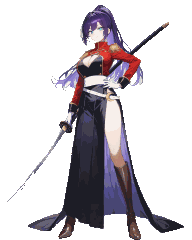
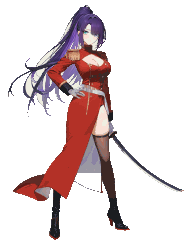
★★ §169 — 대기 그림을 다시 뽑아 공격을 뚫는다 (공격 95/105)
- §166.3 에서 막힌 12종은 대기 그림이 원인이었다: 무기를 땅에 꽂거나 어깨에 걸친 구도라
  img2img 로 자세를 바꾸면 그 구도가 남거나 옷이 무너졌다
- 옷·태그는 그대로 두고 pose 만 「무기를 손에 들고 편하게 서 있다」로, 부정에 땅에 꽂기·어깨 걸치기를 넣고 seed +200
- 대기 12장 중 7장이 개선됐지만 거기서 뽑은 공격은 3장만 통과 — 절반의 성공
  · 짝 교체(대기+공격): 검성 · 만독의 아왕 → 공격 93 → 95/105
  · 대기만 교체: 창기병 · 관문수호자 · 분쇄의 거벽 · 도적왕
  · 현행 유지: 흑기사 · 수호기사 · 도적 · 사신군주 · 대주교 · 아수라 파계존
- ★ 대기를 바꾸면 그 클래스의 공격도 같이 바꿔야 한다 (seed 가 다르면 옷이 다르다).
  적용 전 «대기를 바꾸는 클래스에 이미 적용된 공격본이 있나» 를 확인한다

CACHE merc-v198 · CLIENT_REV 198 · 목록 276장 · 스모크 1028 · pwa 57 · 브라우저 276/276

diff --git a/src/art/illust_manifest.js b/src/art/illust_manifest.js
@@ -37,7 +37,7 @@ export const ILLUST_PNG = {
   illust_arhat_atk: { file: 'art/illust/illust_arhat_atk.png', w: 192, h: 240, ax: 113, ay: 239, marker: { hair: [255, 300], eye: [165, 200] }, roles: ['hair'] },
   illust_assassin: { file: 'art/illust/illust_assassin.png', w: 192, h: 240, ax: 136, ay: 239, eyeBox: [101, 23, 106, 27], marker: { hair: [255, 300], eye: [165, 200] }, roles: ['hair', 'eye'] },
   illust_assassin_atk: { file: 'art/illust/illust_assassin_atk.png', w: 192, h: 240, ax: 87, ay: 239, eyeBox: [77, 24, 95, 30], marker: { hair: [255, 300], eye: [165, 200] }, roles: ['hair', 'eye'] },
-  illust_banditking: { file: 'art/illust/illust_banditking.png', w: 192, h: 240, ax: 38, ay: 239, eyeBox: [39, 22, 80, 38], marker: { hair: [255, 300], eye: [165, 200] }, roles: ['hair', 'eye'] },
+  illust_banditking: { file: 'art/illust/illust_banditking.png', w: 192, h: 240, ax: 92, ay: 239, eyeBox: [83, 31, 99, 36], marker: { hair: [255, 300], eye: [165, 200] }, roles: ['hair', 'eye'] },
   illust_banditking_abyss: { file: 'art/illust/illust_banditking_abyss.png', w: 192, h: 240, ax: 127, ay: 239, eyeBox: [83, 45, 99, 50], marker: { hair: [255, 300], eye: [165, 200] }, roles: ['hair', 'eye'] },
   illust_banditking_abyss_atk: { file: 'art/illust/illust_banditking_abyss_atk.png', w: 192, h: 240, ax: 65, ay: 239, eyeBox: [98, 48, 102, 53], marker: { hair: [255, 300], eye: [165, 200] }, roles: ['hair', 'eye'] },
   illust_banditking_apex: { file: 'art/illust/illust_banditking_apex.png', w: 192, h: 240, ax: 164, ay: 239, eyeBox: [98, 22, 102, 26], marker: { hair: [255, 300], eye: [165, 200] }, roles: ['hair', 'eye'] },
@@ -70,9 +70,9 @@ export const ILLUST_PNG = {
   illust_bulwark: { file: 'art/illust/illust_bulwark.png', w: 192, h: 240, ax: 132, ay: 239, eyeBox: [83, 22, 98, 31], marker: { hair: [255, 300], eye: [165, 200] }, roles: ['hair', 'eye'] },
   illust_bulwark_abyss: { file: 'art/illust/illust_bulwark_abyss.png', w: 192, h: 240, ax: 131, ay: 239, eyeBox: [83, 29, 99, 37], marker: { hair: [255, 300], eye: [165, 200] }, roles: ['hair', 'eye'] },
   illust_bulwark_abyss_atk: { file: 'art/illust/illust_bulwark_abyss_atk.png', w: 192, h: 240, ax: 129, ay: 239, marker: { hair: [255, 300], eye: [165, 200] }, roles: ['hair'] },
-  illust_bulwark_apex: { file: 'art/illust/illust_bulwark_apex.png', w: 192, h: 240, ax: 50, ay: 239, eyeBox: [78, 21, 95, 28], marker: { hair: [255, 300], eye: [165, 200] }, roles: ['hair', 'eye'] },
+  illust_bulwark_apex: { file: 'art/illust/illust_bulwark_apex.png', w: 192, h: 240, ax: 131, ay: 239, marker: { hair: [255, 300], eye: [165, 200] }, roles: ['hair'] },
   illust_bulwark_atk: { file: 'art/illust/illust_bulwark_atk.png', w: 192, h: 240, ax: 149, ay: 239, eyeBox: [75, 20, 119, 34], marker: { hair: [255, 300], eye: [165, 200] }, roles: ['hair', 'eye'] },
-  illust_dragoon: { file: 'art/illust/illust_dragoon.png', w: 192, h: 240, ax: 141, ay: 239, eyeBox: [92, 31, 108, 39], marker: { hair: [255, 300], eye: [165, 200] }, roles: ['hair', 'eye'] },
+  illust_dragoon: { file: 'art/illust/illust_dragoon.png', w: 192, h: 240, ax: 134, ay: 239, marker: { hair: [255, 300], eye: [165, 200] }, roles: ['hair'] },
   illust_dragoonlord: { file: 'art/illust/illust_dragoonlord.png', w: 192, h: 240, ax: 143, ay: 239, eyeBox: [100, 23, 105, 28], marker: { hair: [255, 300], eye: [165, 200] }, roles: ['hair', 'eye'] },
   illust_dragoonlord_abyss: { file: 'art/illust/illust_dragoonlord_abyss.png', w: 192, h: 240, ax: 115, ay: 239, eyeBox: [113, 60, 117, 65], marker: { hair: [255, 300], eye: [165, 200] }, roles: ['hair', 'eye'] },
   illust_dragoonlord_abyss_atk: { file: 'art/illust/illust_dragoonlord_abyss_atk.png', w: 192, h: 240, ax: 127, ay: 239, eyeBox: [92, 55, 132, 78], marker: { hair: [255, 300], eye: [165, 200] }, roles: ['hair', 'eye'] },
@@ -162,7 +162,7 @@ export const ILLUST_PNG = {
   illust_fallenmonk_apex: { file: 'art/illust/illust_fallenmonk_apex.png', w: 192, h: 240, ax: 116, ay: 239, eyeBox: [49, 25, 78, 50], marker: { hair: [255, 300], eye: [165, 200] }, roles: ['hair', 'eye'] },
   illust_fallenmonk_atk: { file: 'art/illust/illust_fallenmonk_atk.png', w: 192, h: 240, ax: 7, ay: 239, marker: { hair: [255, 300], eye: [165, 200] }, roles: ['hair'] },
   illust_fighter: { file: 'art/illust/illust_fighter.png', w: 192, h: 240, ax: 133, ay: 239, marker: { hair: [255, 300], eye: [165, 200] }, roles: ['hair'] },
-  illust_gatewarden: { file: 'art/illust/illust_gatewarden.png', w: 192, h: 240, ax: 126, ay: 239, eyeBox: [90, 28, 96, 32], marker: { hair: [255, 300], eye: [165, 200] }, roles: ['hair', 'eye'] },
+  illust_gatewarden: { file: 'art/illust/illust_gatewarden.png', w: 192, h: 240, ax: 18, ay: 238, eyeBox: [84, 35, 90, 40], marker: { hair: [255, 300], eye: [165, 200] }, roles: ['hair', 'eye'] },
   illust_gatewarden_abyss: { file: 'art/illust/illust_gatewarden_abyss.png', w: 192, h: 240, ax: 94, ay: 239, eyeBox: [74, 23, 89, 31], marker: { hair: [255, 300], eye: [165, 200] }, roles: ['hair', 'eye'] },
   illust_gatewarden_abyss_atk: { file: 'art/illust/illust_gatewarden_abyss_atk.png', w: 192, h: 240, ax: 23, ay: 239, eyeBox: [77, 27, 146, 79], marker: { hair: [255, 300], eye: [165, 200] }, roles: ['hair', 'eye'] },
   illust_gatewarden_apex: { file: 'art/illust/illust_gatewarden_apex.png', w: 192, h: 240, ax: 83, ay: 239, eyeBox: [85, 31, 89, 35], marker: { hair: [255, 300], eye: [165, 200] }, roles: ['hair', 'eye'] },
@@ -283,12 +283,14 @@ export const ILLUST_PNG = {
   illust_swordgod_apex: { file: 'art/illust/illust_swordgod_apex.png', w: 192, h: 240, ax: 132, ay: 239, eyeBox: [90, 23, 103, 29], marker: { hair: [255, 300], eye: [165, 200] }, roles: ['hair', 'eye'] },
   illust_swordgod_apex_atk: { file: 'art/illust/illust_swordgod_apex_atk.png', w: 192, h: 240, ax: 93, ay: 239, eyeBox: [76, 32, 111, 76], marker: { hair: [255, 300], eye: [165, 200] }, roles: ['hair', 'eye'] },
   illust_swordgod_atk: { file: 'art/illust/illust_swordgod_atk.png', w: 192, h: 240, ax: 99, ay: 239, eyeBox: [91, 24, 115, 76], marker: { hair: [255, 300], eye: [165, 200] }, roles: ['hair', 'eye'] },
-  illust_swordmaster: { file: 'art/illust/illust_swordmaster.png', w: 192, h: 240, ax: 137, ay: 239, eyeBox: [90, 26, 103, 34], marker: { hair: [255, 300], eye: [165, 200] }, roles: ['hair', 'eye'] },
+  illust_swordmaster: { file: 'art/illust/illust_swordmaster.png', w: 192, h: 240, ax: 55, ay: 239, eyeBox: [82, 30, 88, 35], marker: { hair: [255, 300], eye: [165, 200] }, roles: ['hair', 'eye'] },
+  illust_swordmaster_atk: { file: 'art/illust/illust_swordmaster_atk.png', w: 192, h: 240, ax: 55, ay: 239, marker: { hair: [255, 300], eye: [165, 200] }, roles: ['hair'] },
   illust_swordsman: { file: 'art/illust/illust_swordsman.png', w: 192, h: 240, ax: 125, ay: 239, eyeBox: [89, 22, 95, 28], marker: { hair: [255, 300], eye: [165, 200] }, roles: ['hair', 'eye'] },
   illust_swordsman_atk: { file: 'art/illust/illust_swordsman_atk.png', w: 192, h: 240, ax: 87, ay: 239, eyeBox: [80, 24, 100, 30], marker: { hair: [255, 300], eye: [165, 200] }, roles: ['hair', 'eye'] },
   illust_venomfang: { file: 'art/illust/illust_venomfang.png', w: 192, h: 240, ax: 128, ay: 239, eyeBox: [71, 23, 77, 28], marker: { hair: [255, 300], eye: [165, 200] }, roles: ['hair', 'eye'] },
   illust_venomfang_abyss: { file: 'art/illust/illust_venomfang_abyss.png', w: 192, h: 240, ax: 84, ay: 239, eyeBox: [77, 21, 92, 30], marker: { hair: [255, 300], eye: [165, 200] }, roles: ['hair', 'eye'] },
   illust_venomfang_abyss_atk: { file: 'art/illust/illust_venomfang_abyss_atk.png', w: 192, h: 240, ax: 47, ay: 239, eyeBox: [79, 23, 85, 28], marker: { hair: [255, 300], eye: [165, 200] }, roles: ['hair', 'eye'] },
-  illust_venomfang_apex: { file: 'art/illust/illust_venomfang_apex.png', w: 192, h: 240, ax: 82, ay: 239, eyeBox: [76, 32, 94, 37], marker: { hair: [255, 300], eye: [165, 200] }, roles: ['hair', 'eye'] },
+  illust_venomfang_apex: { file: 'art/illust/illust_venomfang_apex.png', w: 192, h: 240, ax: 150, ay: 239, marker: { hair: [255, 300], eye: [165, 200] }, roles: ['hair'] },
+  illust_venomfang_apex_atk: { file: 'art/illust/illust_venomfang_apex_atk.png', w: 192, h: 240, ax: 84, ay: 239, marker: { hair: [255, 300], eye: [165, 200] }, roles: ['hair'] },
   illust_venomfang_atk: { file: 'art/illust/illust_venomfang_atk.png', w: 192, h: 240, ax: 31, ay: 239, eyeBox: [64, 23, 82, 32], marker: { hair: [255, 300], eye: [165, 200] }, roles: ['hair', 'eye'] },
 };

diff --git a/sw.js b/sw.js
@@ -48,7 +48,7 @@
  * v4 — 월드맵 탑 노드 / 정원 70 / 펫 자동배치 / 주점 특화 클래스 고정.
  * v3 — 무한의 탑 + 펫. 새 모듈 6개가 APP_SHELL 에 들어갔다.
  * v2 — 월드맵 라벨 겹침 수정(worldmap.js). */
-const CACHE = 'merc-v197';
+const CACHE = 'merc-v198';
 const CACHE_PREFIX = 'merc-';
 
 /** 오프라인 첫 실행에 필요한 것 전부 (src 전 모듈 + css + manifest + icons). */
@@ -435,6 +435,8 @@ const APP_SHELL = [
   './art/illust/illust_dragoonlord_abyss_atk.png',
   './art/illust/illust_bladedancer_apex_atk.png',
   './art/illust/illust_arhat_apex_atk.png',
+  './art/illust/illust_swordmaster_atk.png',
+  './art/illust/illust_venomfang_apex_atk.png',
 ];
 
 /** 모든 클라이언트에 알린다 (index.html 의 갱신 배너가 받는다). */

diff --git a/src/data/changelog.js b/src/data/changelog.js
@@ -31,6 +31,16 @@
 /** @type {Entry[]} */
 export const CHANGELOG = [
   {
+    id: '2026-09-07-idle-redo',
+    date: '2026-09-07',
+    rev: 198,
+    title: '용병 그림 몇 장을 다시 그렸다',
+    items: [
+      '검성·창기병·관문수호자·분쇄의 거벽·도적왕·만독의 아왕의 **서 있는 그림**을 다시 그렸다 — 무기를 땅에 짚는 대신 손에 들고 선다.',
+      '공격 자세 그림이 95종으로 늘었다.',
+    ],
+  },
+  {
     id: '2026-09-07-all-foes',
     date: '2026-09-07',
     rev: 197,

diff --git a/src/net/config.js b/src/net/config.js
@@ -66,7 +66,7 @@ export const TIMEOUT_MS = 15_000;
  * ★ `sw.js` 의 `CACHE` 와 **따로** 둔다. 그건 워커 안에 있어서 페이지가 못 읽는다.
  * ★ 클라 코드를 의미 있게 고치면 여기를 올려라. 스모크가 `sw.js` 와 짝이 맞는지 본다.
  */
-export const CLIENT_REV = 197;
+export const CLIENT_REV = 198;
 
 export const EP = {
   signupAnon: `${SUPABASE_URL}/auth/v1/signup`,

diff --git a/docs/HANDOFF.md b/docs/HANDOFF.md
@@ -11926,3 +11926,13 @@ activate (갱신일 때만)
 - 남은 16장을 **img2img denoise 0.82 + CN 1.4**(옷을 최대한 지키고 자세를 최대로 밀기)로 시도해 4장 추가. 누적 93.
 - 남은 12장은 대기 그림이 이미 «검을 땅에 꽂은/무기를 어깨에 걸친» 구도라, denoise 를 낮추면 그 구도가 남고 올리면 옷이 바뀐다 — img2img 로는 이 이상 안 된다. 다음 수는 **대기 그림 자체를 다시 뽑는 것**(그 클래스만 공격에 쓰기 좋은 구도로)이다.
 
+## 169. 대기 그림을 다시 뽑아 공격을 뚫는다 (2026-09-07, 제작자 「대기 그림 다시 뽑아서 나머지 12개도 마저 해줘」)
+- §166.3 에서 막힌 12종은 **대기 그림 자체가 원인**이었다 — 무기를 땅에 꽂거나 어깨에 걸친 구도라, img2img 로 자세를 바꾸려 하면 그 구도가 남거나 옷이 무너졌다.
+- 그래서 **대기의 자세만** 중립으로 바꿔 다시 뽑았다: 옷·태그는 그대로 두고 `pose` 를 「무기를 손에 들고 편하게 서 있다」 로, 부정에 「땅에 꽂기·어깨에 걸치기·손을 자루에 얹기」 를 넣고 seed +200.
+- 결과는 **절반의 성공**이다. 대기 12장 중 7장이 지금 것보다 낫다고 나왔지만, 거기서 뽑은 공격은 3장만 통과했다. 최종 적용:
+  - **짝 교체(대기+공격)**: 검성 · 만독의 아왕 → 공격 93 → **95/105**
+  - **대기만 교체**: 창기병 · 관문수호자 · 분쇄의 거벽 · 도적왕 (공격은 아직 — 대기가 더 나아졌으니 그것만 취한다)
+  - **현행 유지**: 흑기사 · 수호기사 · 도적 · 사신군주 · 대주교 · 아수라 파계존
+- ★ **짝을 지켜라.** 대기를 바꾸면 그 클래스의 공격 그림도 같이 바꿔야 한다 — seed 가 달라지면 옷이 달라지고, 전투에서 0.3초마다 옷이 바뀐다. 적용 전에 «대기를 바꾸는 클래스에 이미 적용된 공격본이 있나» 를 반드시 확인해라 (이번에는 12종 전부 공격본이 없어서 안전했다).
+- 남은 10종은 대기를 다시 뽑아도 공격이 안 됐다. 여기서 더 가려면 자세를 골격이 아니라 **참조 그림(IP-Adapter)** 으로 주거나, 클래스별로 골격을 따로 그려야 한다 — 지금 골격은 무기 계열당 하나다.
+
